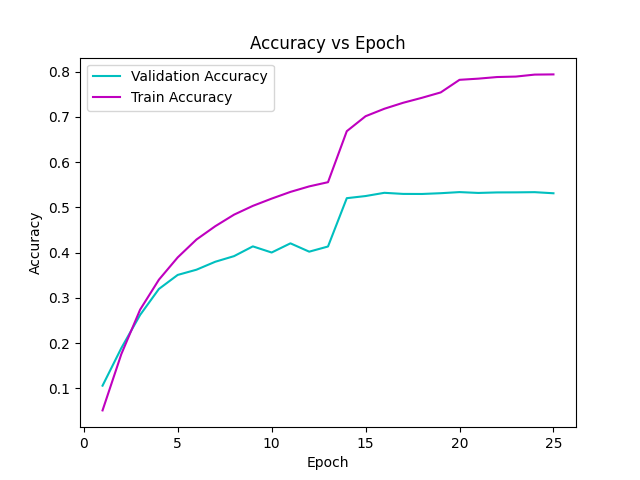
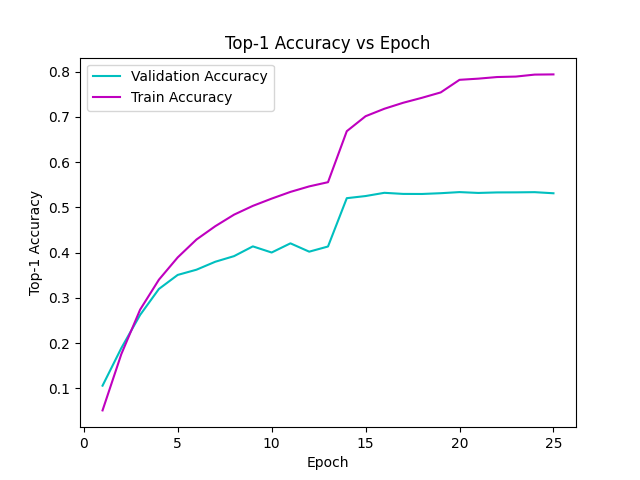
Added Training Graphs and plotting script

Changed region(s): [[0.3438, 0.0625, 0.6875, 0.125], [0.0312, 0.4062, 0.0625, 0.625]]

diff --git a/plot_results.py b/plot_results.py
@@ -12,12 +12,10 @@ for i in training_stats:
     if 'Validation Accuracy' in i:
         try:
             y = i.split()
-            print(y)
             train_loss.append(float(y[4].strip(',')))
             valid_loss.append(float(y[7].strip(',')))
             train_accuracy.append(float(y[10].strip(',')))
             valid_accuracy.append(float(y[13].strip(',')))
-            print(float(y[13].strip(',')))
             train_accuracy_5.append(float(y[18].strip(',')))
             valid_accuracy_5.append(float(y[23].strip(',')))
         except IndexError:
@@ -35,8 +33,8 @@ plt.clf()
 
 plt.plot(epochs, valid_accuracy, '-c', label='Validation Accuracy')
 plt.plot(epochs, train_accuracy, '-m', label='Train Accuracy')
-plt.title('Accuracy vs Epoch')
-plt.ylabel('Accuracy')
+plt.title('Top-1 Accuracy vs Epoch')
+plt.ylabel('Top-1 Accuracy')
 
 plt.xlabel('Epoch')
 plt.legend()
@@ -46,8 +44,8 @@ plt.clf()
 
 plt.plot(epochs, valid_accuracy_5, '-c', label='Validation Accuracy')
 plt.plot(epochs, train_accuracy_5, '-m', label='Train Accuracy')
-plt.title('Accuracy vs Epoch')
-plt.ylabel('Accuracy')
+plt.title('Top-5 Accuracy vs Epoch')
+plt.ylabel('Top-5 Accuracy')
 
 plt.xlabel('Epoch')
 plt.legend()
